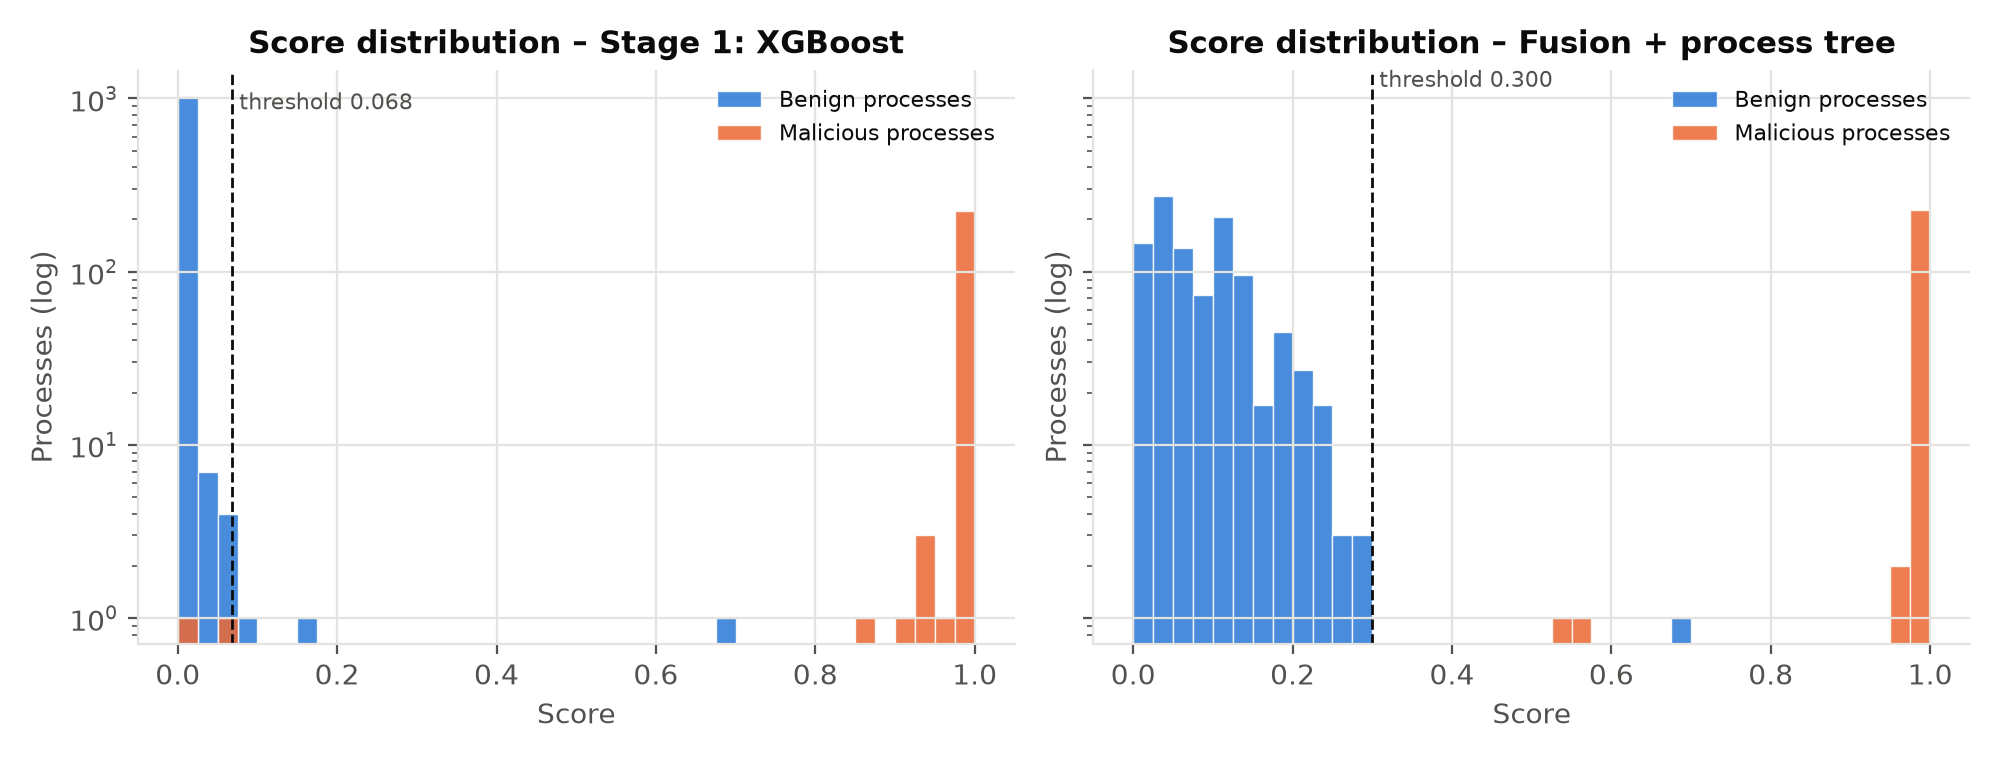
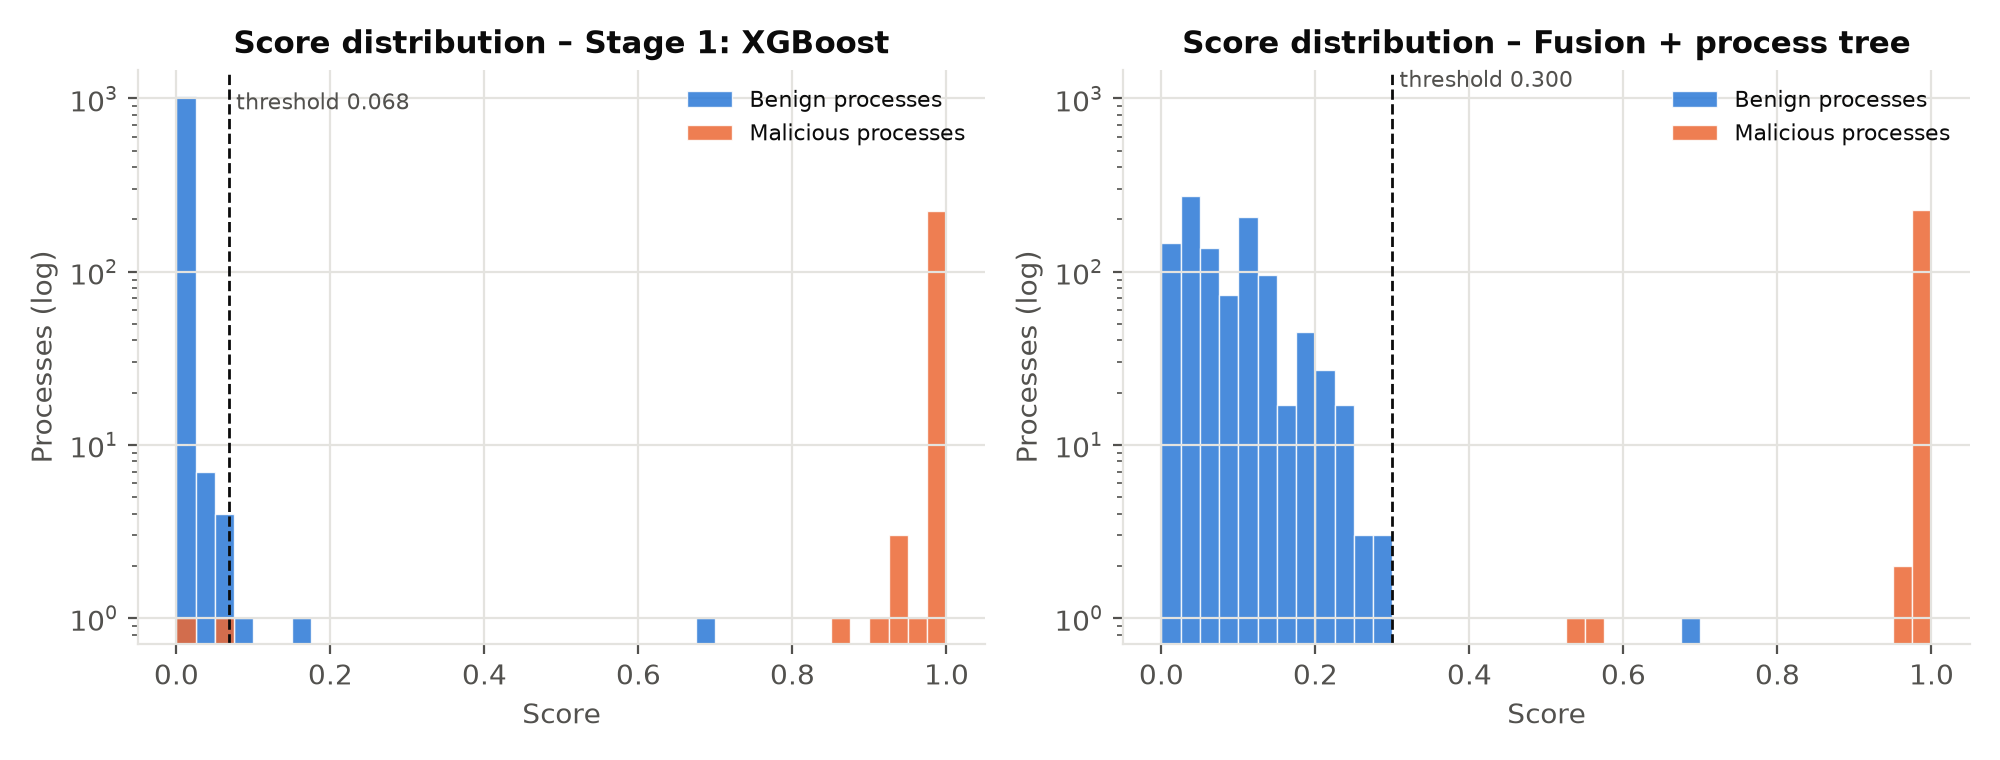
Figure change

diff --git a/results.py b/results.py
@@ -173,6 +173,7 @@ def fig_scores(pred: pd.DataFrame, rep: dict, fdir: Path):
         ax.set_yscale("log")
         ax.set(title=f"Score distribution – {STAGE_NAME[st]}", xlabel="Score", ylabel="Processes (log)")
         ax.legend(fontsize=8)
+    axes[1].tick_params(labelleft=True)
     save(fig, fdir / "score_distributions.png")
 
 
@@ -249,13 +250,14 @@ def fig_ttd(rdir: Path, fdir: Path, tdir: Path):
         if not len(t):
             continue
         frac = np.arange(1, len(t) + 1) / len(g)
-        ax.step(np.r_[0, t], np.r_[0, frac], where="post", color=SERIES[i],
-                label=f"{TTD_NAME.get(kind, kind)} ({len(t)}/{len(g)} runs)")
+        ax.step(np.r_[9.0, t, 11.0], np.r_[0, frac, frac[-1]], where="post", color=SERIES[i],
+                lw=2.4 - 0.4 * i, label=f"{TTD_NAME.get(kind, kind)} ({len(t)}/{len(g)} runs)")
     ax.axvline(10, color=TEXT2, lw=1, ls="--")
-    ax.text(9.8, 0.5, "shortest window (10 s):\nearliest possible detection", ha="right", fontsize=8, color=TEXT2)
+    ax.text(9.95, 0.5, "shortest window (10 s):\nearliest possible detection", ha="right", fontsize=8, color=TEXT2)
     ax.set(xlabel="Seconds from scenario start", ylabel="Share of malicious runs detected",
-           title="Time to detection (Stage 1, per-window models)", ylim=(0, 1.02))
-    ax.legend(fontsize=8, loc="upper left")
+           title="Time to detection (Stage 1, per-window models)", ylim=(0, 1.05), xlim=(9.0, 11.0))
+    ax.set_xticks(np.arange(9.0, 11.01, 0.25))
+    ax.legend(fontsize=8, loc="lower right")
     save(fig, fdir / "time_to_detection.png")
 
 
